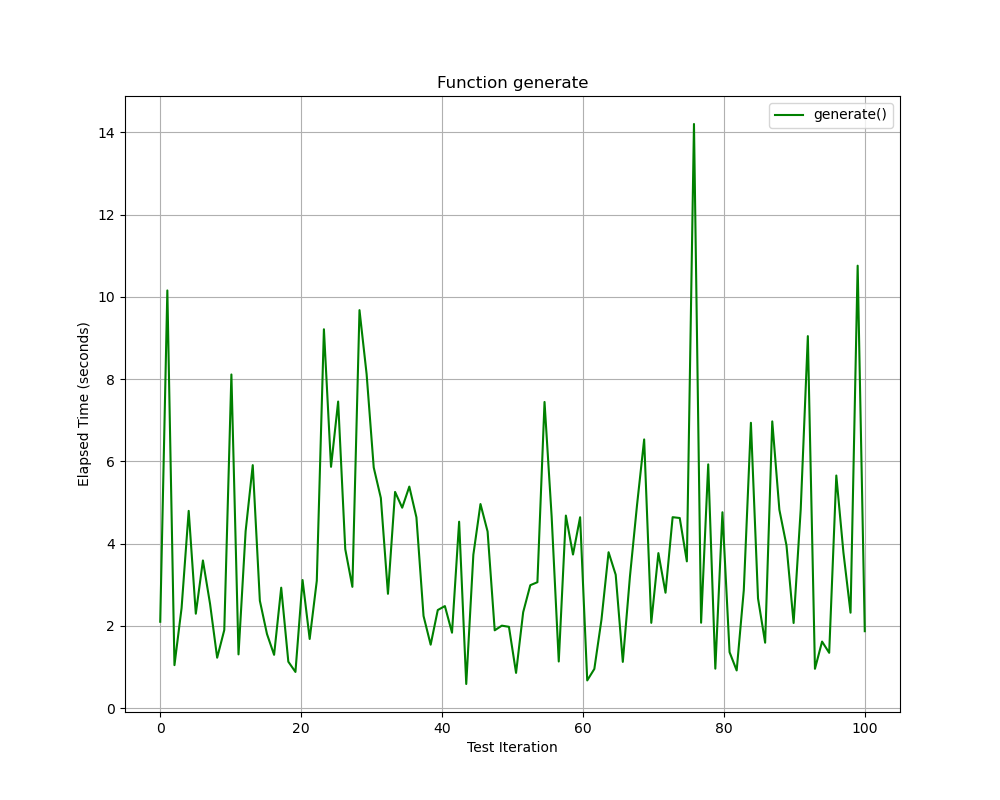
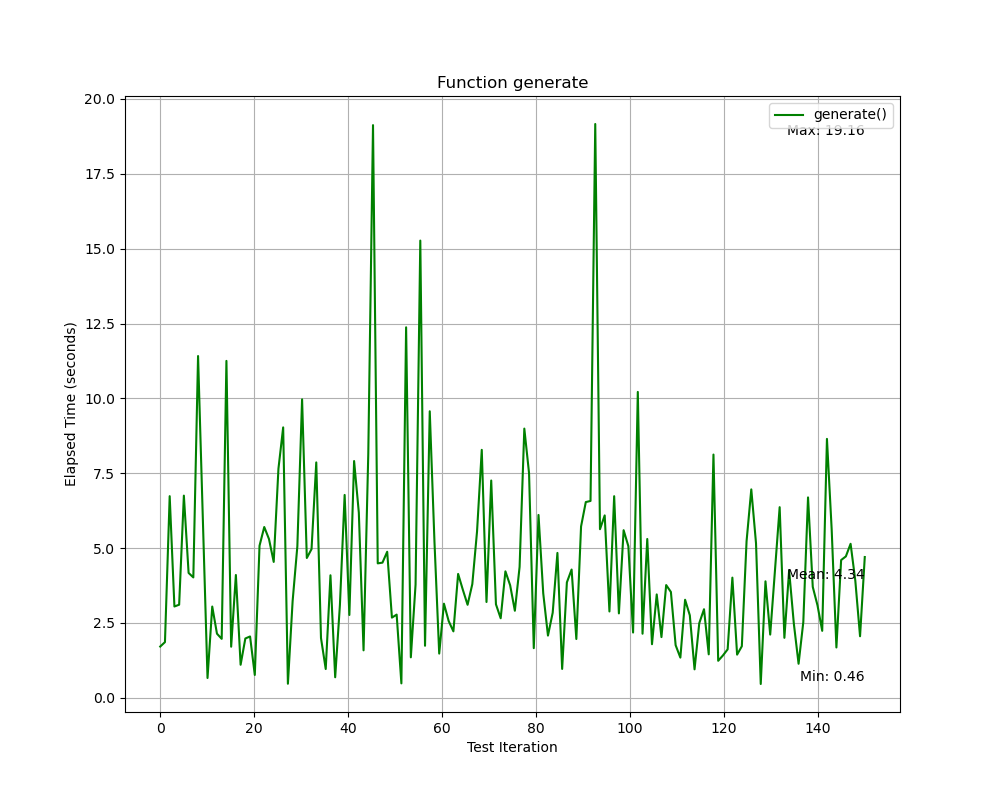
fixing pow_fast()

diff --git a/benchmark/plotting.py b/benchmark/plotting.py
@@ -20,7 +20,7 @@ class GraphVisualization:
         self.execution_times.append(func_times)
 
 
-    def plot_data(self, colors, labels, graph_type='lines', show_stats=False, show_regression=False):
+    def plot_data(self, colors, labels, graph_type='lines', show_stats=False):
         if len(self.execution_times) != len(colors) or len(self.execution_times) != len(labels):
             raise ValueError("Lengths of execution_times, colors, and labels should be the same.")
         
@@ -29,14 +29,21 @@ class GraphVisualization:
 
         plt.figure(figsize=self.size)
         for i in range(len(self.execution_times)):
-            data_chunck_size = len(self.execution_times[i])
+            data_chunk_size = len(self.execution_times[i])
             if graph_type == 'lines':
-                plt.plot(np.linspace(0, data_chunck_size, data_chunck_size), self.execution_times[i], color=colors[i], label=labels[i])
+                plt.plot(np.linspace(0, data_chunk_size, data_chunk_size), self.execution_times[i], color=colors[i], label=labels[i])
 
+            if show_stats:
+                min_value = np.min(self.execution_times[i])
+                max_value = np.max(self.execution_times[i])
+                mean_value = np.mean(self.execution_times[i])
+                plt.text(data_chunk_size, min_value, f"Min: {min_value:.2f}", verticalalignment='bottom', horizontalalignment='right')
+                plt.text(data_chunk_size, max_value, f"Max: {max_value:.2f}", verticalalignment='top', horizontalalignment='right')
+                plt.text(data_chunk_size, mean_value, f"Mean: {mean_value:.2f}", verticalalignment='top', horizontalalignment='right')
 
         plt.title(self.title)
         plt.xlabel('Test Iteration')
         plt.ylabel('Elapsed Time (seconds)')
         plt.legend()
         plt.grid(True)
-        plt.savefig(self.path+self.title)
+        plt.savefig(self.path + self.title)

diff --git a/benchmark.py b/benchmark.py
@@ -18,8 +18,8 @@ There is two examples:
 
 def plotting_sample():
     obj = GraphVisualization("Function generate")
-    obj.measure_execution_time(100, generate, 2048)
-    obj.plot_data(["green"], ["generate()"], show_stats=False, show_regression=True)
+    obj.measure_execution_time(150, generate, 2048)
+    obj.plot_data(["green"], ["generate()"], show_stats=True)
 
 def profile_sample():
     obj = EffiencyProfile(get_prime_factor)

diff --git a/pubcrypt/number/util.py b/pubcrypt/number/util.py
@@ -63,9 +63,14 @@ def pow_fast(b, e, m=None):
             b %= m
         e >>= 1
 
+        if b == 0 and m:
+            b = 1  
+        if m == 0:
+            m = 1 
     if m:
         result %= m
     return result
+
 
 def isqrt (x):
     q = 1

diff --git a/pubcrypt/cryptosystem/rsa.py b/pubcrypt/cryptosystem/rsa.py
@@ -17,7 +17,6 @@ def generate(nBits, e=65537):
 
     if pair_wise_consistency_test(n, e, d) == 0:
         raise ValueError("Error, please retry. Consistency test failed")
-
     return n, e, d
 
 
